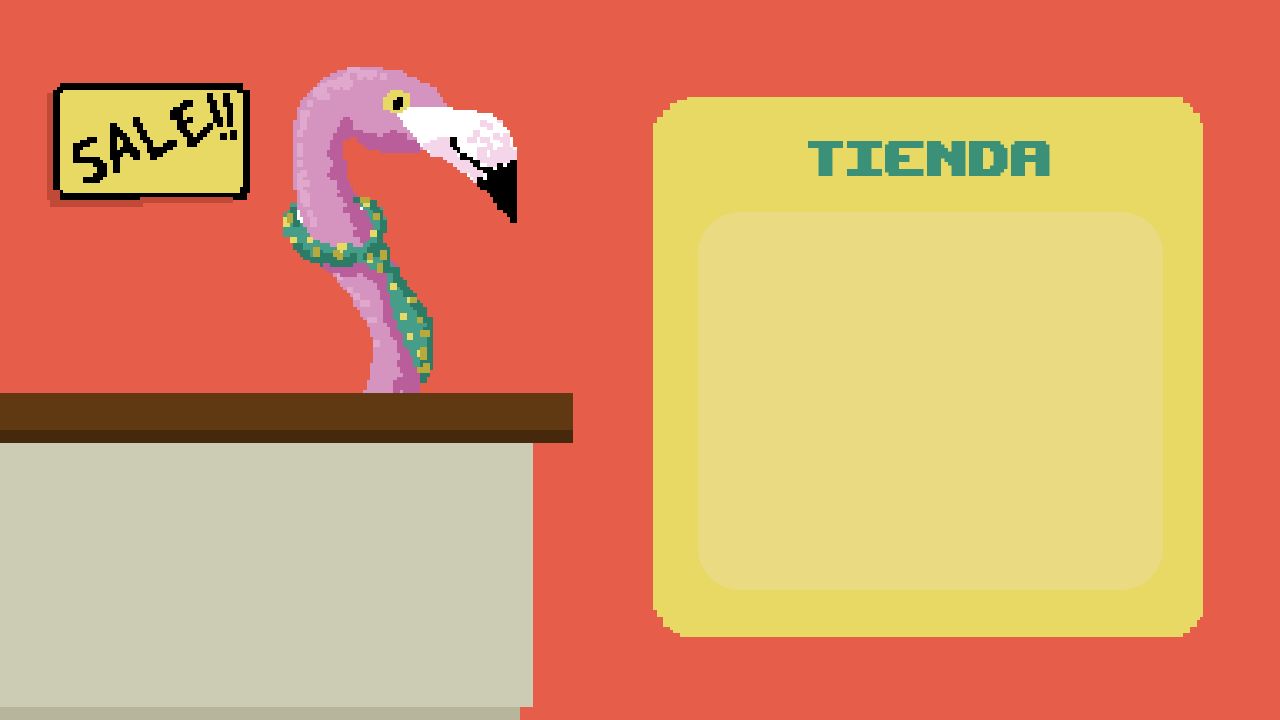
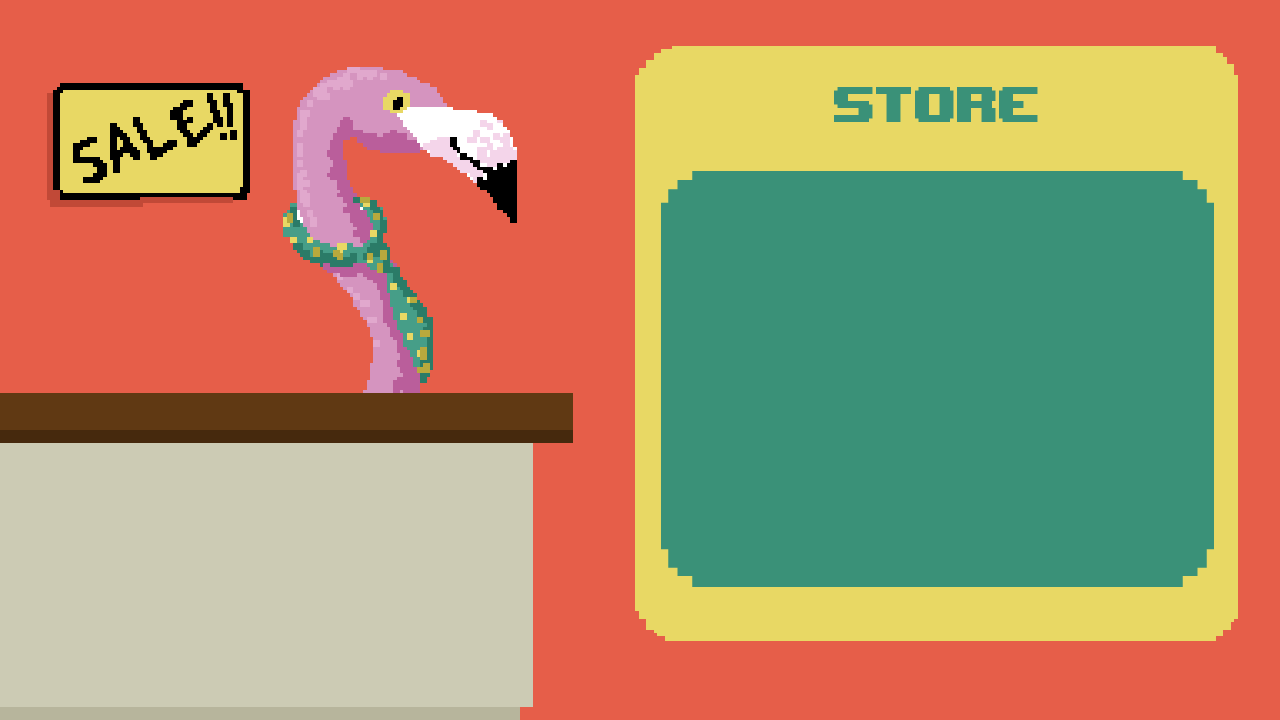
Se comenzó con la tienda, se agregan los sprites

diff --git a/core/src/com/mygdx/menudemo/ShopScreen.java b/core/src/com/mygdx/menudemo/ShopScreen.java
@@ -35,7 +35,6 @@ class ShopScreen extends ScreenAdapter {
     private Texture backgroundTexture;
     private Texture returnTexture;
     private Texture returnPressTexture;
-    private Table table;
     private Texture codeTexture;
     private Texture codePressTexture;
     private BitmapFont bitmapFont;
@@ -47,6 +46,20 @@ class ShopScreen extends ScreenAdapter {
     private float musicVolume;
     private Texture coinsIndicatorTexture;
     private int coinsCollected = 0;
+    private Texture crownSkinButtonTexture;
+    private Texture crownSkinButtonPressTexture;
+    private Texture tieSkinButtonPressTexture;
+    private Texture tieSkinButtonTexture;
+    private Texture hulkSkinButtonPressTexture;
+    private Texture hulkSkinButtonTexture;
+    private Texture hatSkinButtonPressTexture;
+    private Texture hatSkinButtonTexture;
+
+    private enum STATE{
+        NORMAL, RUSURE, CODE
+    }
+
+    private STATE state = STATE.NORMAL;
 
     public ShopScreen(MenuDemo menuDemo) {
         this.menuDemo =menuDemo;
@@ -60,7 +73,6 @@ class ShopScreen extends ScreenAdapter {
         camera.position.set(WORLD_WIDTH / 2, WORLD_HEIGHT / 2, camera.position.z);
         camera.update();
         stage = new Stage(new FitViewport(WORLD_WIDTH, WORLD_HEIGHT));
-        Gdx.input.setInputProcessor(stage);
 
         music = Gdx.audio.newMusic(Gdx.files.internal("shop/song.mp3"));
         music.setLooping(true);
@@ -76,11 +88,12 @@ class ShopScreen extends ScreenAdapter {
 
         coinsIndicatorTexture = new Texture(Gdx.files.internal("defaultLevels/Coins.png"));
         Image coins = new Image(coinsIndicatorTexture);
-        coins.setPosition(3*WORLD_WIDTH/5+50, WORLD_HEIGHT-coins.getHeight()-10);
+        coins.setPosition(WORLD_WIDTH/6, 10);
 
         returnTexture = new Texture(Gdx.files.internal("shop/return.png"));
         returnPressTexture = new Texture(Gdx.files.internal("shop/returnPress.png"));
         ImageButton retur = new ImageButton(new TextureRegionDrawable(new TextureRegion(returnTexture)), new TextureRegionDrawable(new TextureRegion(returnPressTexture)));
+        retur.setPosition(20, 20);
         retur.addListener(new ActorGestureListener() {
             @Override
             public void tap(InputEvent event, float x, float y, int count, int button) {
@@ -95,32 +108,55 @@ class ShopScreen extends ScreenAdapter {
         codeTexture = new Texture(Gdx.files.internal("shop/code.png"));
         codePressTexture = new Texture(Gdx.files.internal("shop/codePress.png"));
         ImageButton code = new ImageButton(new TextureRegionDrawable(new TextureRegion(codeTexture)), new TextureRegionDrawable(new TextureRegion(codePressTexture)));
+        code.setPosition(200, 150);
         code.addListener(new ActorGestureListener() {
             @Override
             public void tap(InputEvent event, float x, float y, int count, int button) {
-                music.stop();
                 super.tap(event, x, y, count, button);
-                menuDemo.setScreen(new StartScreen(menuDemo));
-                dispose();
             }
         });
 
-        table = new Table();
-        table.pad(20);
-        //table.setDebug(true);
+        hatSkinButtonTexture = new Texture(Gdx.files.internal("shop/hatKiwi.png"));
+        hatSkinButtonPressTexture = new Texture(Gdx.files.internal("shop/hatKiwiPress.png"));
+        ImageButton hat = new ImageButton(new TextureRegionDrawable(new TextureRegion(hatSkinButtonTexture)), new TextureRegionDrawable(new TextureRegion(hatSkinButtonPressTexture)));
+        hat.setPosition(WORLD_WIDTH/2+100, WORLD_HEIGHT/2+10);
 
-        //table.add(title).padBottom(100).expand().top().colspan(3);
+        tieSkinButtonTexture = new Texture(Gdx.files.internal("shop/tieKiwi.png"));
+        tieSkinButtonPressTexture = new Texture(Gdx.files.internal("shop/tieKiwiPress.png"));
+        ImageButton tie = new ImageButton(new TextureRegionDrawable(new TextureRegion(tieSkinButtonTexture)), new TextureRegionDrawable(new TextureRegion(tieSkinButtonPressTexture)));
+        tie.setPosition(WORLD_WIDTH/2+350, WORLD_HEIGHT/2+10);
 
-        table.row();
-        table.add(code).bottom().expand();
+        crownSkinButtonTexture = new Texture(Gdx.files.internal("shop/crownKiwi.png"));
+        crownSkinButtonPressTexture = new Texture(Gdx.files.internal("shop/crownKiwiPress.png"));
+        ImageButton crown = new ImageButton(new TextureRegionDrawable(new TextureRegion(crownSkinButtonTexture)), new TextureRegionDrawable(new TextureRegion(crownSkinButtonPressTexture)));
+        crown.setPosition(WORLD_WIDTH/2+100, WORLD_HEIGHT/2-200);
 
-        table.row();
-        table.add(retur).bottom().left();
+        hulkSkinButtonTexture = new Texture(Gdx.files.internal("shop/hulkKiwi.png"));
+        hulkSkinButtonPressTexture = new Texture(Gdx.files.internal("shop/hulkKiwiPress.png"));
+        ImageButton hulk = new ImageButton(new TextureRegionDrawable(new TextureRegion(hulkSkinButtonTexture)), new TextureRegionDrawable(new TextureRegion(hulkSkinButtonPressTexture)));
+        hulk.setPosition(WORLD_WIDTH/2+350, WORLD_HEIGHT/2-200);
 
-        table.setFillParent(true);
-        table.pack();
-        stage.addActor(table);
+
+
+        /*crownSkinButtonTexture = new Texture(Gdx.files.internal("shop/crownKiwi.png"));
+        crownSkinButtonPressTexture = new Texture(Gdx.files.internal("shop/crownKiwiPress.png"));
+        ImageButton crown = new ImageButton(new TextureRegionDrawable(new TextureRegion(crownSkinButtonTexture)), new TextureRegionDrawable(new TextureRegion(crownSkinButtonPressTexture)));
+        crown.setPosition(WORLD_WIDTH/2+50, WORLD_HEIGHT/2+30);
+
+        crownSkinButtonTexture = new Texture(Gdx.files.internal("shop/crownKiwi.png"));
+        crownSkinButtonPressTexture = new Texture(Gdx.files.internal("shop/crownKiwiPress.png"));
+        ImageButton crown = new ImageButton(new TextureRegionDrawable(new TextureRegion(crownSkinButtonTexture)), new TextureRegionDrawable(new TextureRegion(crownSkinButtonPressTexture)));
+        crown.setPosition(WORLD_WIDTH/2+50, WORLD_HEIGHT/2+30);
+        */
+
         stage.addActor(coins);
+        stage.addActor(code);
+        stage.addActor(retur);
+        stage.addActor(background);
+        stage.addActor(crown);
+        stage.addActor(hat);
+        stage.addActor(hulk);
+        stage.addActor(tie);
     }
 
     private void savePreferences() {
@@ -156,6 +192,9 @@ class ShopScreen extends ScreenAdapter {
         batch.begin();
         drawCoinsCounter();
         batch.end();
+        if(state == STATE.NORMAL){
+            Gdx.input.setInputProcessor(stage);
+        }
     }
 
     private void updateVolume() {
